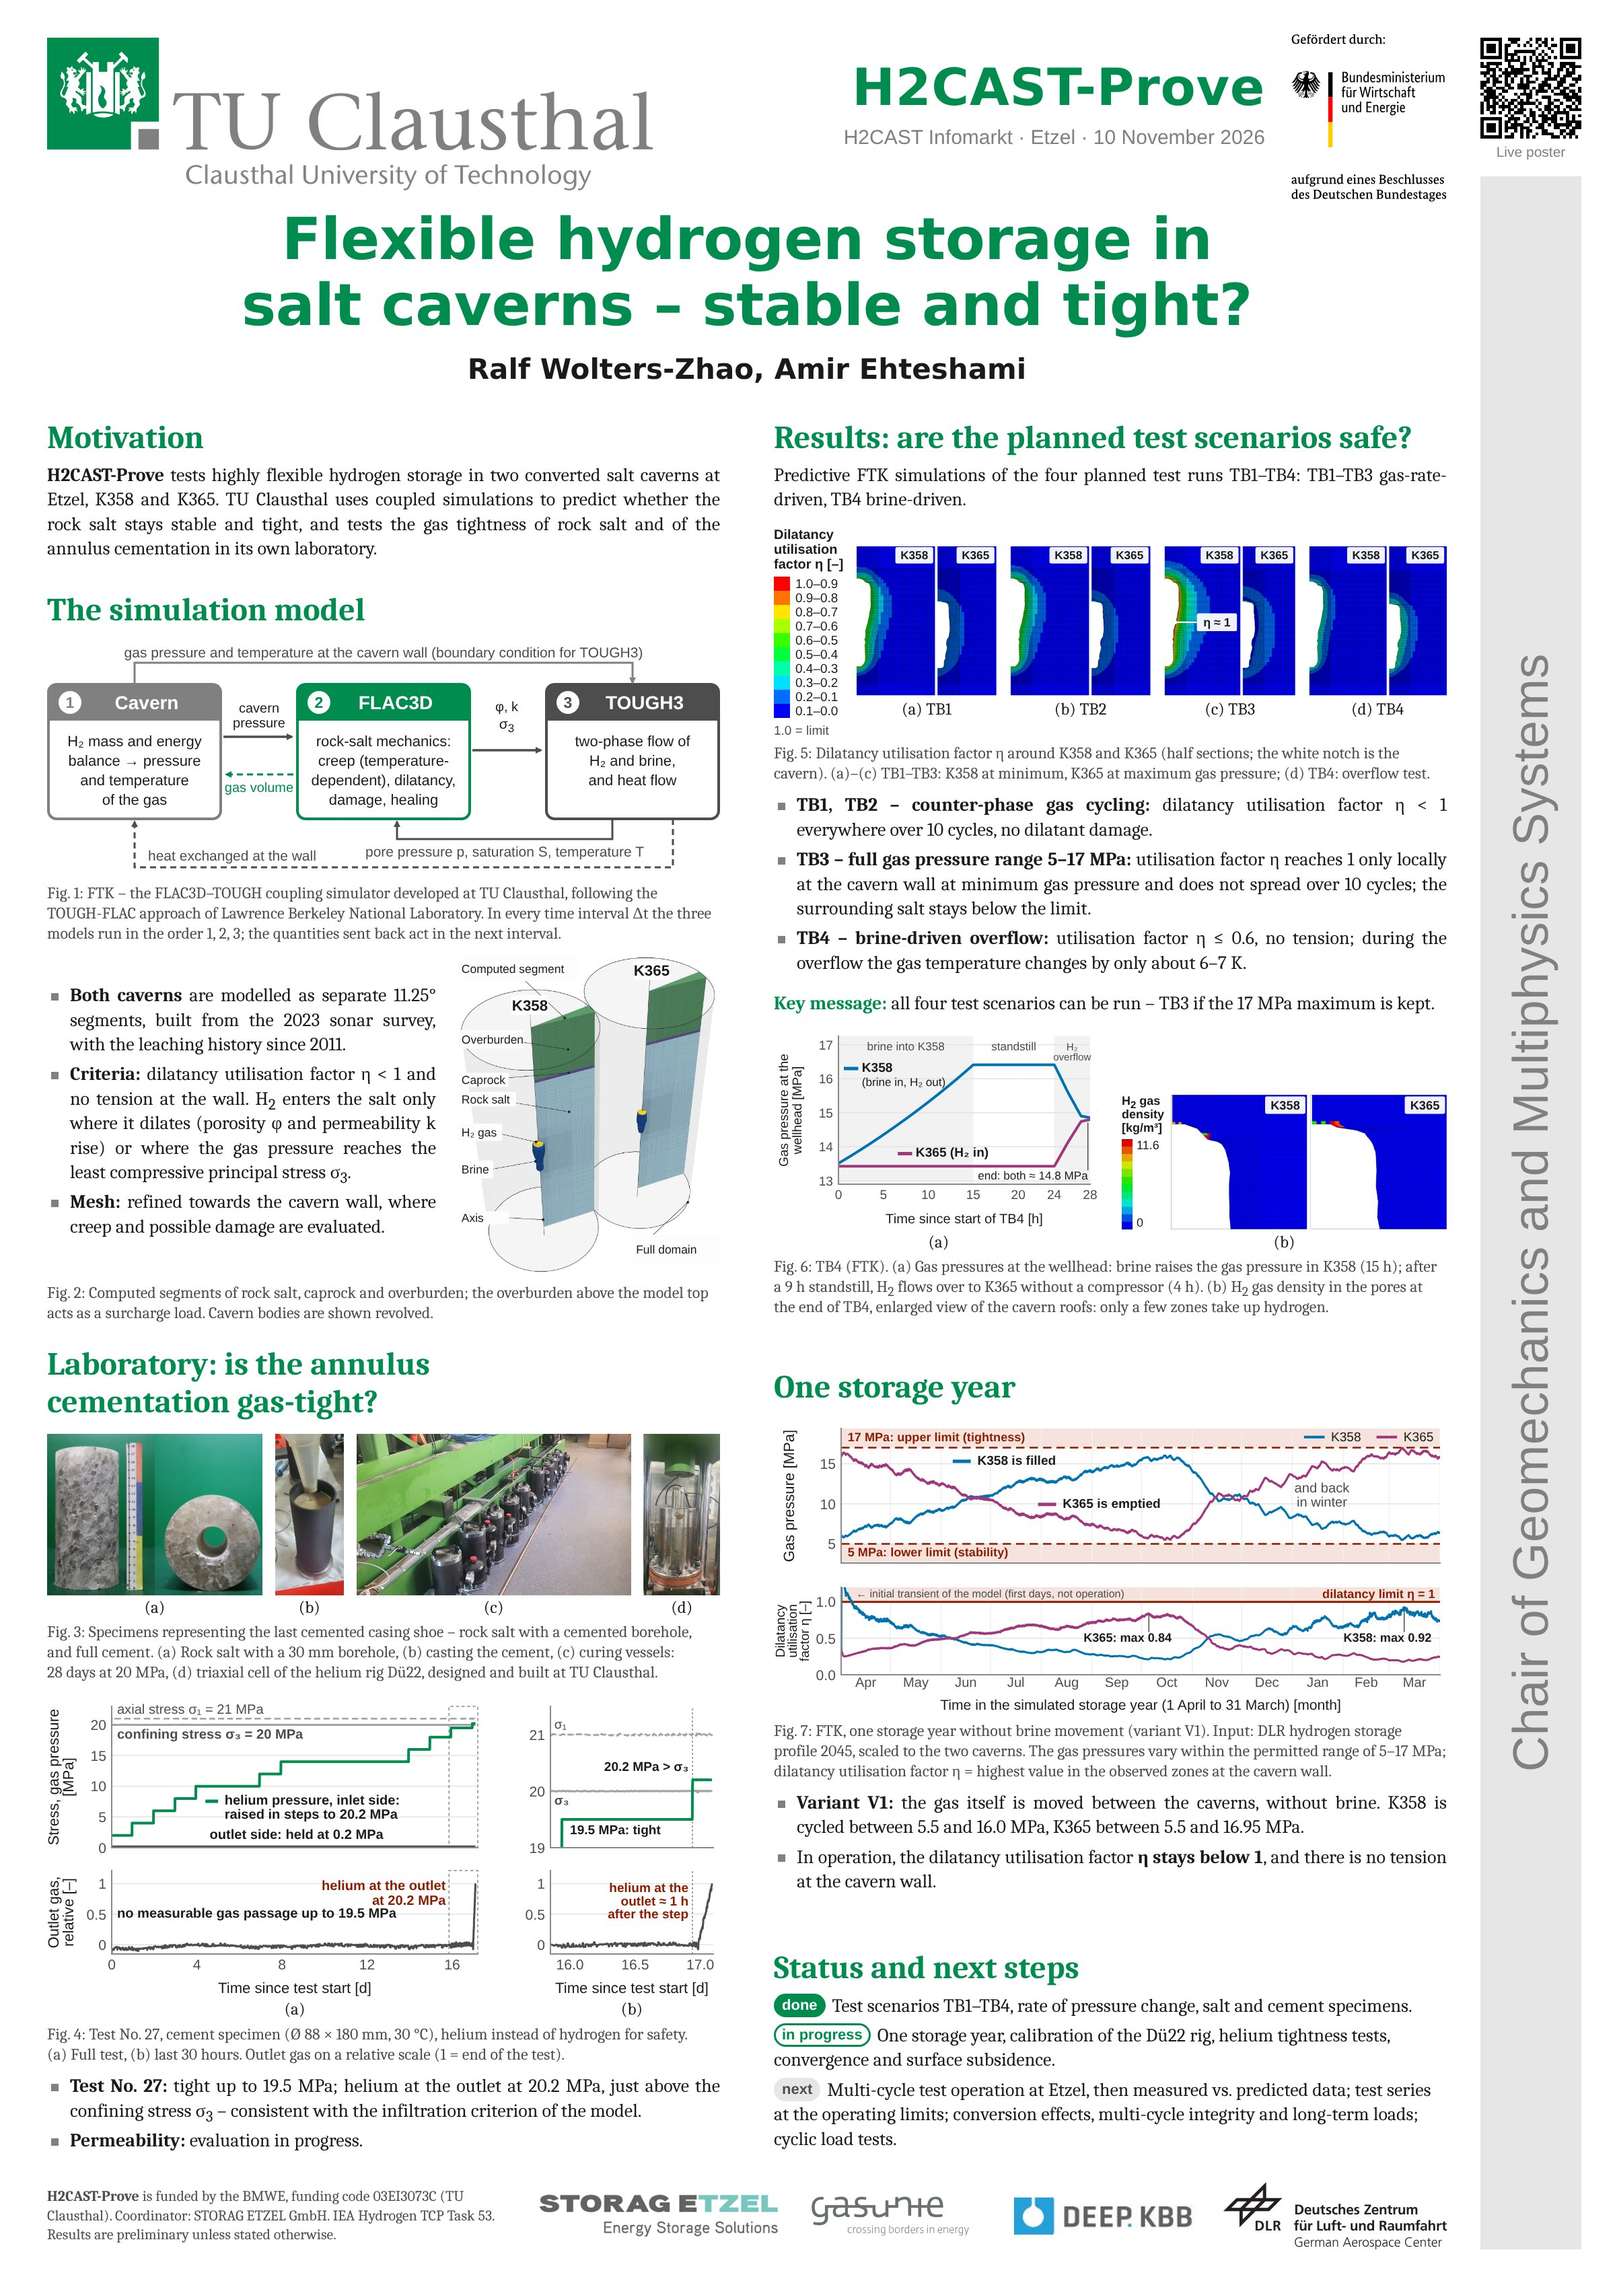
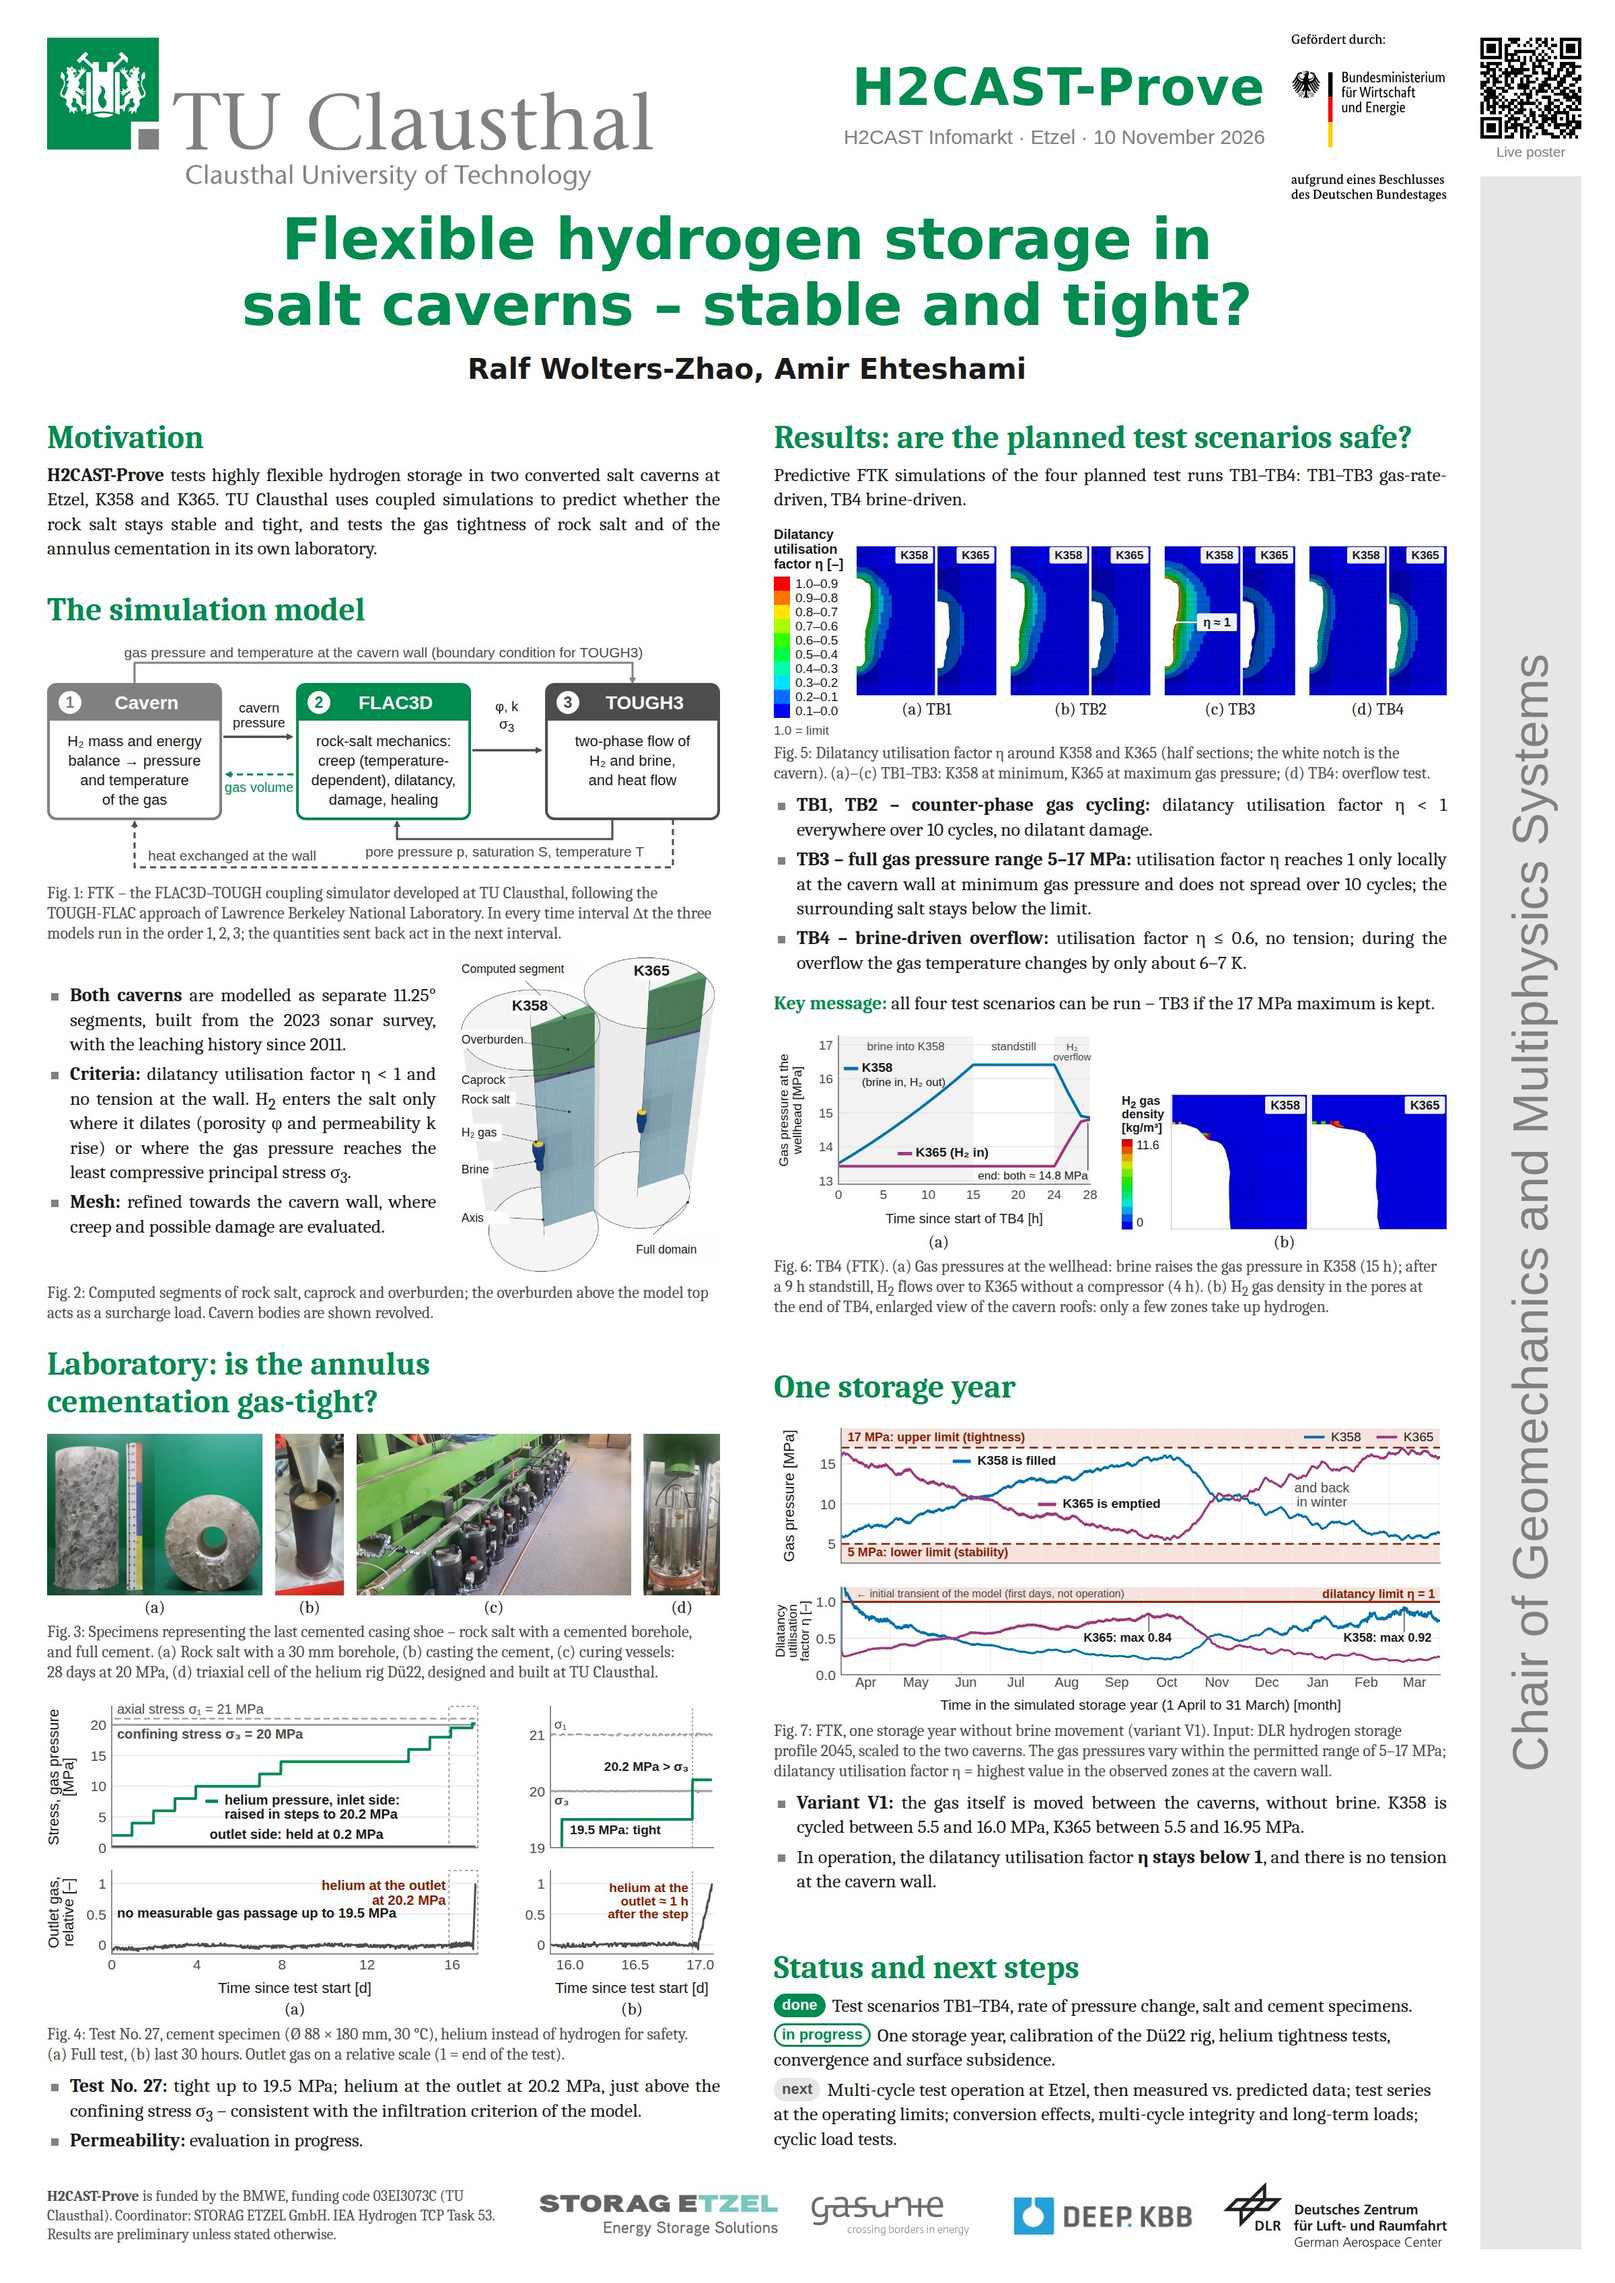
Render poster.jpg, clickable areas and figure copies (CI)

diff --git a/index.html b/index.html
@@ -87,7 +87,7 @@
 <h1 class="sr-only">H2CAST-Prove live poster – TU Clausthal</h1>
 <main>
   <div id="poster">
-    <img src="poster.jpg?v=b3870650fd" width="2400" height="3393" alt="Poster: Flexible hydrogen storage in salt caverns – stable and tight? TU Clausthal in H2CAST-Prove.">
+    <img src="poster.jpg?v=3cb0d9db6f" width="2400" height="3393" alt="Poster: Flexible hydrogen storage in salt caverns – stable and tight? TU Clausthal in H2CAST-Prove.">
   </div>
 </main>
 <section class="toc" id="contents" aria-labelledby="tocTitle">
